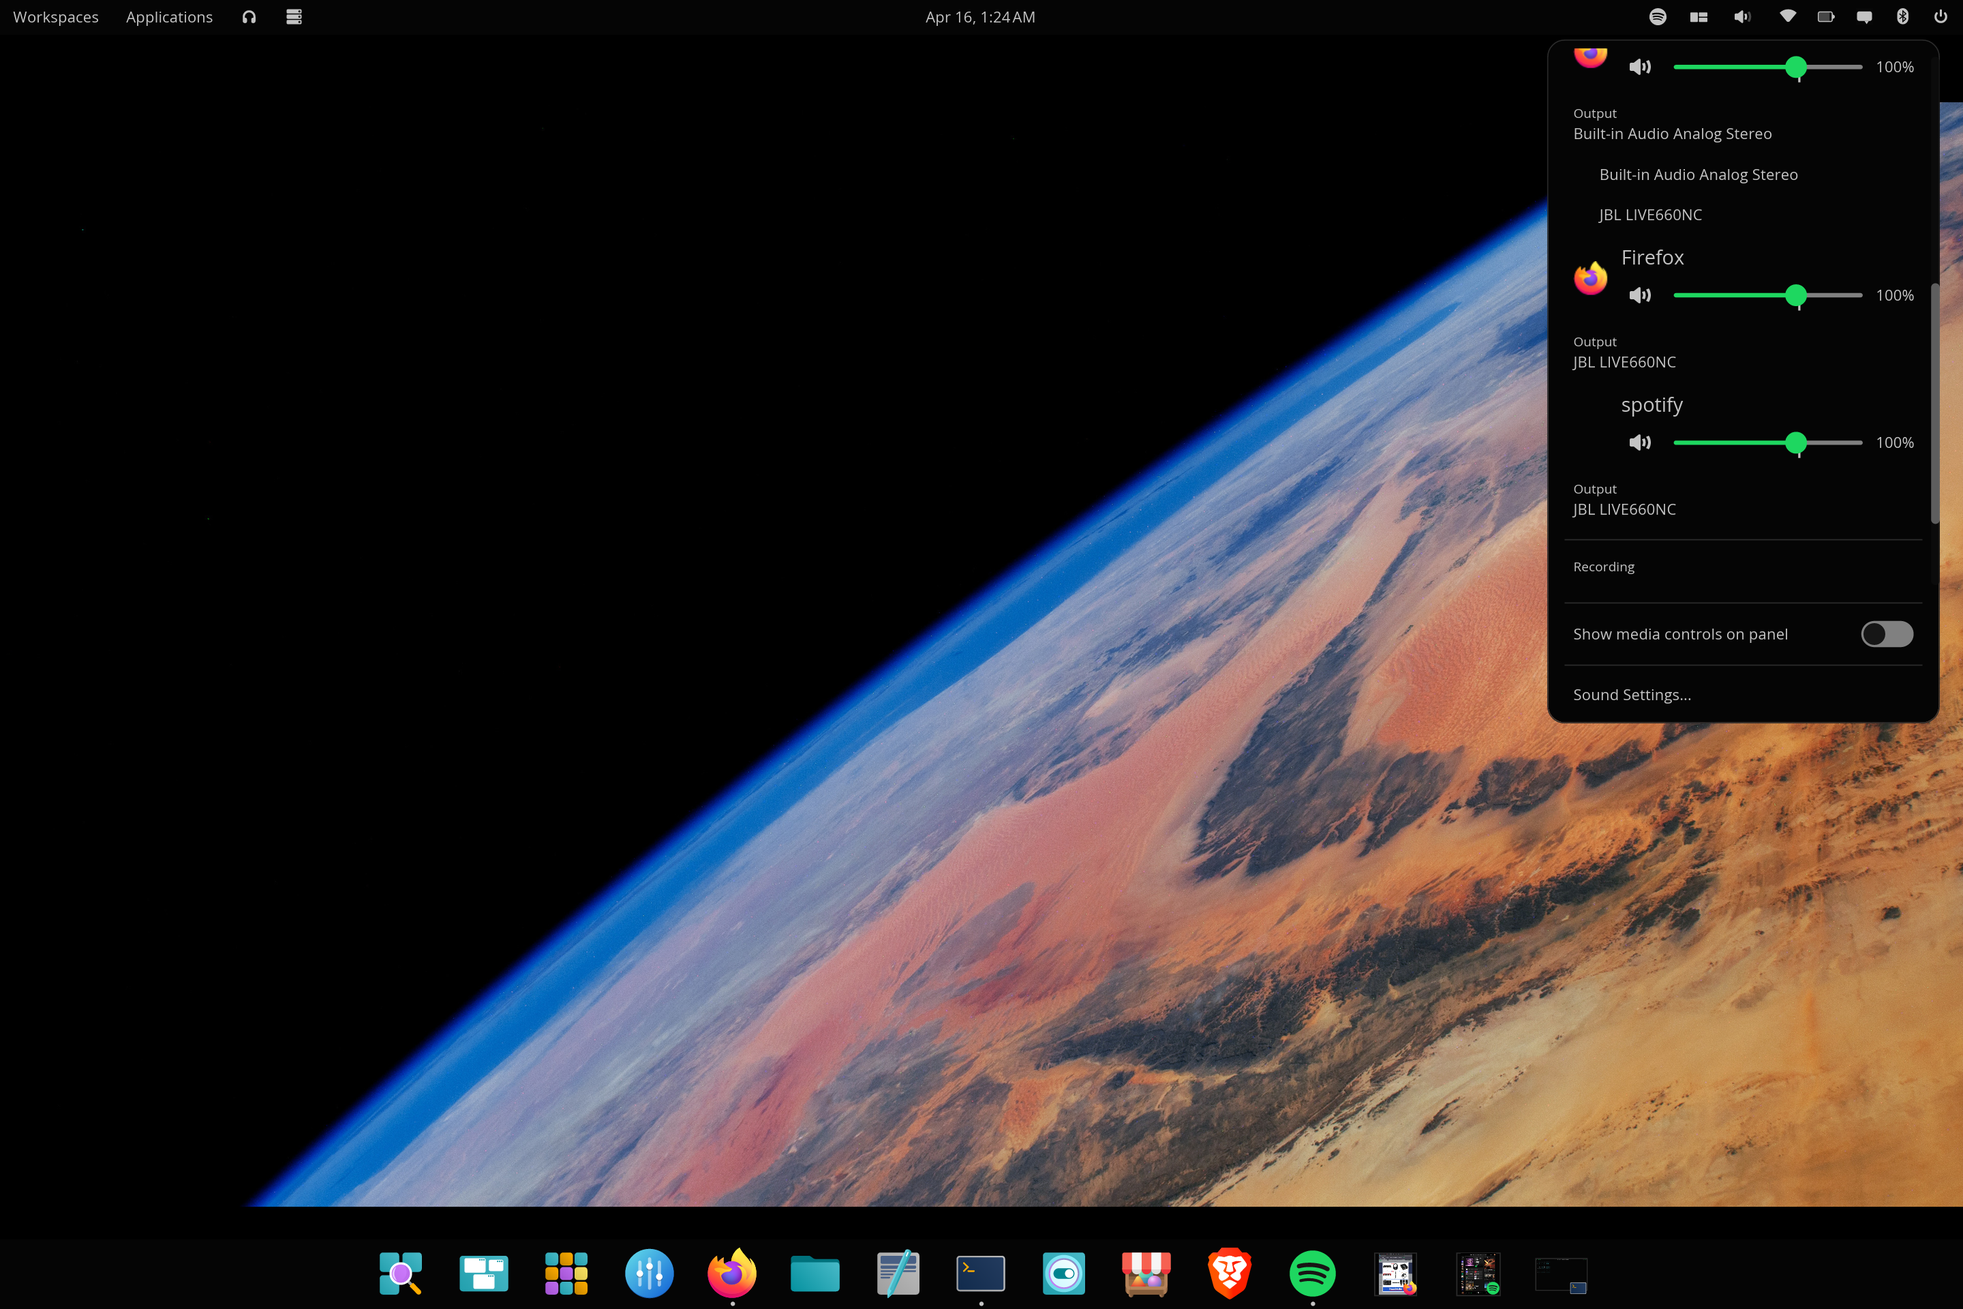
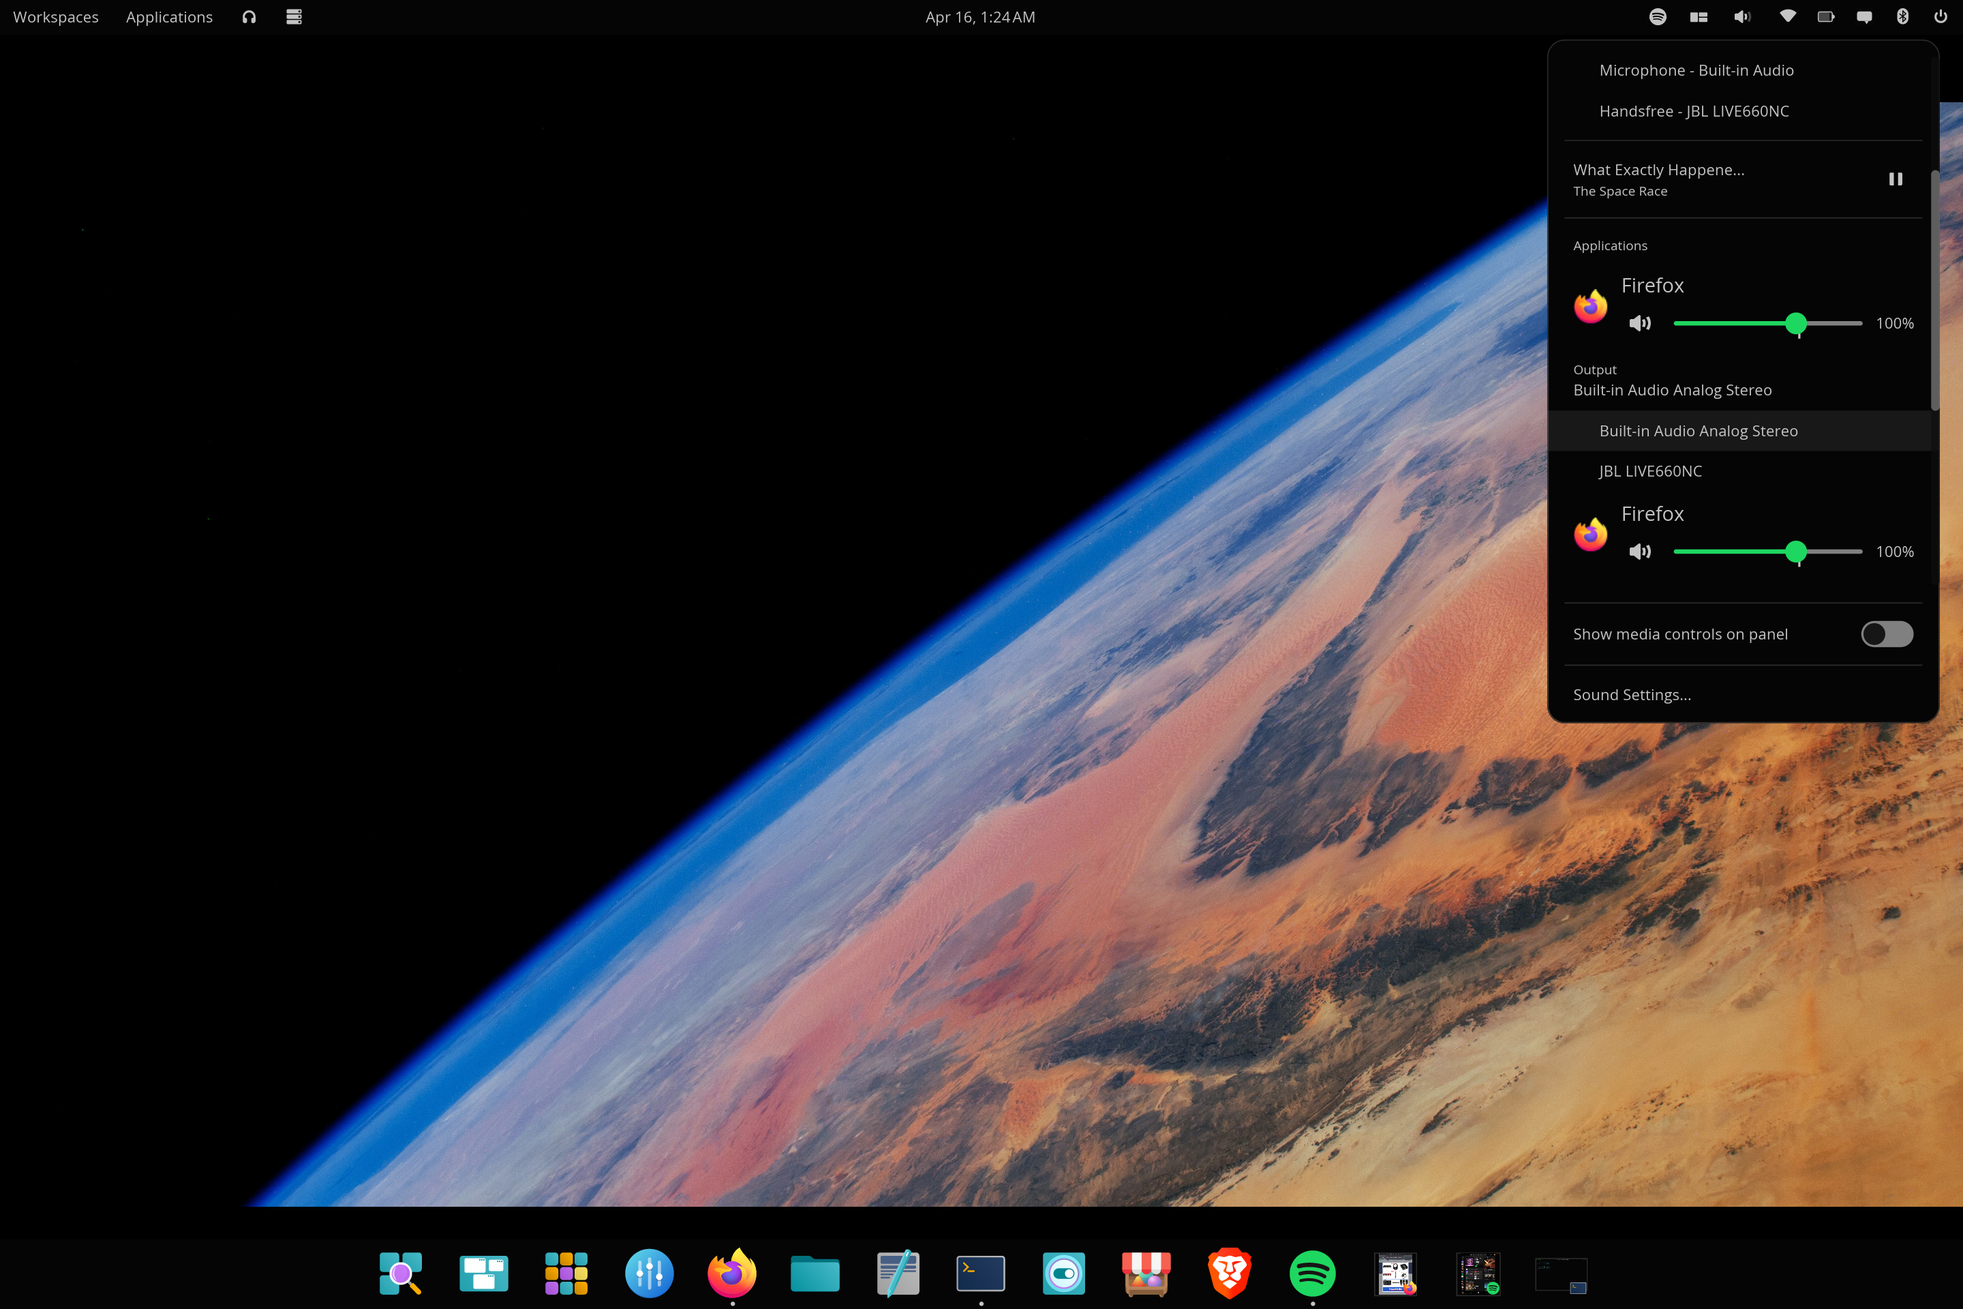
Fix README screenshot descriptions and filenames

Changed region(s): [[0.7812, 0.0312, 0.9688, 0.4375], [0.9688, 0.3125, 1.0, 0.4062], [0.9688, 0.125, 1.0, 0.2188]]

diff --git a/README.md b/README.md
@@ -1,62 +1,100 @@
 # cosmic-app-volume
 
-A COSMIC desktop panel applet for per-application volume control and audio routing — replaces the default sound applet with a full mixer.
+A COSMIC desktop panel applet that adds **per-application volume control and per-application audio routing** — the missing piece in COSMIC's audio stack today.
 
-![Per-app volume mixer](screenshots/popup-overview.png)
+![Per-app volume mixer with multiple apps](screenshots/multiple-apps.png)
 
-## What it does
+## How this differs from COSMIC's built-in sound applet
 
-This is a fork of the upstream `cosmic-applet-audio` from System76, extended with per-application controls. You get everything the default sound applet does, plus:
+COSMIC ships with a sound applet (`cosmic-applet-audio`) that gives you master output volume, master input volume, and a picker for which output / input device the system uses. **What it does not give you is per-application control.** If Spotify is too loud while you're on a Discord call, your only option today is to open `pavucontrol` and use it as a separate app.
 
-**Per-application volume sliders** — Independent volume for every app currently producing audio (Firefox, Spotify, Discord, games, etc.) with mute toggle.
+System76 has acknowledged this gap and explicitly deferred it: see [pop-os/cosmic-settings #6](https://github.com/pop-os/cosmic-settings/issues/6) — *"Do not include per-application volume levels. These can arrive in COSMIC V2."* With COSMIC currently in Epoch 1 and Epoch 2 / Epoch 3 still on the roadmap, that's likely a 2026 / 2027 timeline. This applet fills the gap **now**.
 
-**Per-application output routing** — Click the "Output" row beneath any app to expand a list of all available output devices, then click one to move that app's audio there. Same flow as the master Output picker.
+This applet is a fork of `cosmic-applet-audio` — it keeps everything System76 built (so you don't lose anything by switching to it) and adds the per-app section underneath. Specifically, this applet does **everything the stock applet does**, plus:
 
-**Per-application input routing** — Apps capturing microphone audio (Discord calls, OBS, browser meetings, recording software) get their own section with the same volume + routing controls. Pick which input device each app records from.
+| Feature | Stock `cosmic-applet-audio` | `cosmic-app-volume` (this) |
+| --- | --- | --- |
+| Master output volume + mute | ✅ | ✅ |
+| Master input volume + mute | ✅ | ✅ |
+| Output device picker | ✅ | ✅ |
+| Input device picker | ✅ | ✅ |
+| Scroll-wheel volume on icon | ✅ | ✅ |
+| MPRIS now-playing + transport | ✅ | ✅ |
+| **Per-app volume sliders** | ❌ | ✅ |
+| **Per-app mute toggles** | ❌ | ✅ |
+| **Per-app output routing** (move app's audio to a different device) | ❌ | ✅ |
+| **Per-app input routing** (move app's mic source to a different device) | ❌ | ✅ |
+| **Per-app recording control** (mic-using apps shown separately) | ❌ | ✅ |
+| **App icons + large names** in the mixer | ❌ | ✅ |
+| **Scrollable popup** when many apps are playing | ❌ | ✅ |
 
-**Application icons and large names** — Each app row shows the application's own icon (Firefox, Spotify, Brave, etc.) at 32px with the app name at 18px so you can scan the list at a glance.
-
-**Scrollable popup** — When many apps are playing, the per-app section scrolls. The "Sound Settings" link and media controls toggle stay pinned at the bottom.
-
-**Everything from the upstream applet** — Smooth master output and input volume sliders with scroll-wheel control on the panel icon, output and input device pickers, MPRIS now-playing with transport controls, "Show media controls on panel" toggle, "Sound Settings…" link.
+You can run this **alongside** the stock applet, but most people will want to remove the stock applet from their panel after installing this one — they look almost identical at the top, and having both is redundant.
 
 ## Screenshots
 
-| Master controls + per-app | Output picker (master) | Input picker (master) | Per-app output picker | Per-app routing + recording |
-|---|---|---|---|---|
-| ![Overview](screenshots/popup-overview.png) | ![Output](screenshots/output-picker.png) | ![Input](screenshots/input-picker.png) | ![App output](screenshots/app-output-picker.png) | ![Recording](screenshots/recording-section.png) |
+The popup expands the master volume controls at the top, then any active media player, then a per-application section, then a recording section if any app is using a microphone. Output and input device pickers are click-to-expand revealers — same for the per-app routing pickers.
 
-## Why this exists
+**Master output device picker expanded** — click the "Output" row beneath the master volume slider to choose between available output devices. Now-playing track and per-app Firefox row visible below.
 
-System76 deferred per-application volume control to a future COSMIC release ([cosmic-settings#6](https://github.com/pop-os/cosmic-settings/issues/6) — "These can arrive in COSMIC V2"). With the Epoch 2 / Epoch 3 timeline that's likely late 2026 or 2027. Until then, the only way to control per-app volume on COSMIC is to open `pavucontrol` every time. This applet fills that gap.
+![Master output picker](screenshots/master-output-picker.png)
+
+**Master input device picker expanded** — same revealer pattern for switching between available microphones (here showing the laptop's built-in mic and the JBL headphones in handsfree mode).
+
+![Master input picker](screenshots/master-input-picker.png)
+
+**Per-app output routing** — each app in the Applications section gets its own Output picker beneath. Click it to move that app's audio to a different device independent of the system default. Here Firefox's picker is expanded showing both available outputs.
+
+![Per-app output picker](screenshots/app-output-picker.png)
+
+**Multiple apps playing simultaneously** — two Firefox streams and a Spotify stream all listed independently with their own volume sliders, mute toggles, and current output device shown beneath each.
+
+![Multiple apps](screenshots/multiple-apps.png)
+
+**Recording section** — apps capturing microphone audio appear in a separate section below playback apps. Same controls — volume slider, mute toggle, input device picker. Firefox is shown here recording at 55% with the mic-style icon.
+
+![Recording section](screenshots/recording-section.png)
 
 ## Dependencies
 
-- [COSMIC desktop](https://github.com/pop-os/cosmic-epoch) with panel
-- [PipeWire](https://pipewire.org/) with the PulseAudio compatibility layer (default on most distros)
-- `libpulse` — PulseAudio client library (for the PipeWire compat API)
-- Rust + Cargo (for building)
-- `just` (build command runner)
+- [COSMIC desktop](https://github.com/pop-os/cosmic-epoch) (Epoch 1 / 1.0.x or later)
+- [PipeWire](https://pipewire.org/) with the PulseAudio compatibility layer (default on every modern distro that ships PipeWire)
+- PulseAudio client library development headers (this is a **build-time** dependency)
+- Rust toolchain (`rustc` + `cargo`)
+- [`just`](https://github.com/casey/just) command runner
 
-The applet talks to PipeWire through `libpulse`'s sink-input / source-output API. PipeWire ships a PulseAudio compatibility layer by default, so this works on any modern PipeWire-based distro.
+This applet talks to PipeWire through `libpulse`'s sink-input / source-output API. PipeWire ships a PulseAudio compatibility layer by default, so this works on any PipeWire-based distro without extra configuration. It does **not** require running PulseAudio itself.
 
-### Install dependencies
+You'll also need the standard COSMIC build dependencies (Wayland headers, xkbcommon headers, etc.). The package commands below cover those too.
 
-If you're already running COSMIC on a current distro, PipeWire is there. You mainly need the PulseAudio dev headers, Rust, and `just`.
+### Verified package names per distro
 
-**Arch / CachyOS:**
+> **Important:** the package containing the libpulse C headers has a different name on every distro. The runtime library is almost always already installed; what you need to add is the `-dev` / `-devel` package.
+
+#### Arch / CachyOS / Manjaro
 
 ```sh
-sudo pacman -S libpulse rust just pkgconf
+sudo pacman -S libpulse rust just pkgconf base-devel wayland libxkbcommon
 ```
 
-**Fedora:**
+The Arch [`libpulse`](https://archlinux.org/packages/extra/x86_64/libpulse/) package includes both the runtime library and the headers — there is no separate `-dev` package on Arch.
+
+#### Fedora / Nobara / Bazzite
 
 ```sh
 sudo dnf install pulseaudio-libs-devel rust cargo just pkgconf-pkg-config wayland-devel libxkbcommon-devel
 ```
 
-**Ubuntu / Pop!_OS:**
+The package is [`pulseaudio-libs-devel`](https://packages.fedoraproject.org/pkgs/pulseaudio/pulseaudio-libs-devel/) even on PipeWire-based Fedora — the package provides the libpulse headers, not the PulseAudio daemon.
+
+#### Bluefin / Aurora / other rpm-ostree systems
+
+```sh
+rpm-ostree install pulseaudio-libs-devel
+```
+
+Then reboot, then install Rust and `just` via your normal user-space tooling (e.g. `brew install rust just` or `cargo install just` after installing rustup).
+
+#### Ubuntu / Pop!_OS / Debian / Linux Mint
 
 ```sh
 sudo apt install libpulse-dev build-essential pkg-config libwayland-dev libxkbcommon-dev
@@ -64,7 +102,32 @@ curl --proto '=https' --tlsv1.2 -sSf https://sh.rustup.rs | sh
 cargo install just
 ```
 
-> **Note:** If the build fails with a missing header error, install the corresponding `-dev` (Ubuntu) or `-devel` (Fedora) package. See the [cosmic-epoch README](https://github.com/pop-os/cosmic-epoch) for the full COSMIC build dependency list.
+The package is [`libpulse-dev`](https://packages.ubuntu.com/libpulse-dev) on Ubuntu/Debian. It pulls in `libpulse0` (the runtime) automatically. On Ubuntu 24.04 LTS it lives in `universe`, which is enabled by default.
+
+#### openSUSE Tumbleweed / Leap
+
+```sh
+sudo zypper install libpulse-devel rust cargo just pkgconf-pkg-config wayland-devel libxkbcommon-devel
+```
+
+> **If the build fails with a missing header error,** install the corresponding `-dev` (Debian-family) or `-devel` (RPM-family) package for whatever it can't find. See the [cosmic-epoch README](https://github.com/pop-os/cosmic-epoch) for the full list of build dependencies COSMIC itself needs.
+
+### Verifying you have what you need before building
+
+Run these three checks first — they take 5 seconds and save you from a half-hour failed compile:
+
+```sh
+# 1. PipeWire's PulseAudio compat is running (you should see a number, not an error)
+pactl info | grep "Server Name"
+
+# 2. libpulse headers are installed (should print a path, not "not found")
+pkg-config --cflags libpulse
+
+# 3. Rust + just are installed
+rustc --version && just --version
+```
+
+If all three return real output, you're ready to build.
 
 ## Install
 
@@ -74,63 +137,65 @@ cd cosmic-app-volume
 just install
 ```
 
-The first build takes a while (3-5 minutes) because it pulls and compiles libcosmic from git. Subsequent builds are fast.
+The first build takes 3–5 minutes because it pulls and compiles `libcosmic` from git. Subsequent rebuilds are fast.
 
-After install, restart `cosmic-panel` so it picks up the new applet:
+After install, restart `cosmic-panel` so it discovers the new applet:
 
 ```sh
 killall cosmic-panel
 ```
 
-It auto-respawns immediately.
+It auto-respawns within a second — no log-out required.
 
-### Add the applet
+### Add the applet to your panel
 
-Open **Settings → Desktop → Panel → Configure Panel Applets**, click **+ Add Applet**, find **App Volume**, drag it to the right section of your panel.
+Open **Settings → Desktop → Panel → Configure Panel Applets**, click **+ Add Applet**, find **App Volume**, drag it into the right section of your panel.
 
-You'll probably want to remove the default "Sound" applet from the panel since this one replaces it.
+Once it's in place and you've confirmed it works, you'll probably want to **remove the stock Sound applet** from the panel — they're nearly identical at the top, so keeping both is just visual noise.
 
 ## Usage
 
-**Click the speaker icon** in your panel to open the popup.
+**Click the speaker icon** in the panel to open the popup.
 
-**Master controls** — Output volume slider with mute (scroll wheel works on the panel icon), input/microphone volume slider with mute, expandable Output and Input device pickers (same as the upstream applet).
+**Master controls** at the top: output volume slider with mute, input/microphone volume slider with mute, expandable Output and Input device pickers. Scroll-wheel on the panel icon adjusts master volume in 5% steps.
 
-**Now playing** — If an MPRIS-compatible app is playing media, you'll see track info with skip-back / play-pause / skip-forward buttons.
+**Now playing** appears beneath when an MPRIS-compatible player is active (Spotify, Firefox media, mpv, etc.) with track info and skip-back / play-pause / skip-forward buttons.
 
-**Applications section** — Each app currently playing audio gets its own row:
+**Applications section** shows every app currently producing audio, each as its own row:
 
-- Application icon and name at the top
+- App icon (32px) and app name (18px) at the top
 - Volume slider 0–150% with mute toggle on the left
-- Current output device shown beneath; click it to expand a picker and move that app to a different output
+- Current output device shown beneath; click the row to expand a picker and move that app's audio to any other available output
 
-**Recording section** — Apps capturing microphone audio get the same treatment:
+**Recording section** shows every app currently capturing audio (Discord during a call, OBS recording, browser meetings, etc.):
 
-- Application icon and name
+- Same large name and icon
 - Volume slider with mic-style mute toggle
-- Current input device shown beneath; click it to expand a picker and route that app to a different microphone
+- Current input device shown beneath; click to expand and route that app to a different microphone
 
-**Sound Settings** — Opens the COSMIC Settings sound page for advanced configuration.
+**Sound Settings…** at the bottom opens the COSMIC Settings sound page for advanced configuration (sample rates, profiles, etc.).
 
 ## How it works
 
-The applet runs entirely within the COSMIC panel process. There is no background daemon.
+The applet runs entirely within the COSMIC panel process — there is no background daemon, no system service, nothing to enable.
 
-- **Master volume controls** use System76's `cosmic-settings-sound-subscription`, the same reactive PipeWire model the upstream `cosmic-applet-audio` uses. This is what gives the master slider its smoothness.
-- **Per-app controls** use a dedicated thread running the PulseAudio mainloop, talking to PipeWire through the PulseAudio compatibility layer. The thread subscribes to sink-input and source-output events, sends snapshots to the UI through a channel, and receives volume / mute / route commands back.
-- **Filtering** removes system event sounds (volume change beeps, notification chimes), short-lived audio feedback streams, and noise generators like `pw-play`, `pavucontrol`, and `pw-record` so only real applications appear.
+- **Master controls** use System76's reactive `cosmic-settings-sound-subscription`, the same model the stock applet uses. This is what gives the master sliders their smoothness.
+- **Per-app controls** use a dedicated thread running the libpulse mainloop, talking to PipeWire through its PulseAudio compat layer. The thread subscribes to `sink-input` and `source-output` events, sends snapshots to the UI through a channel, and receives volume / mute / route commands back.
+- **Filtering** removes system event sounds (volume change beeps, notification chimes), short-lived audio feedback streams from `pw-play` / `pavucontrol` / `pw-record`, and anything tagged with `media.role=event`. Only real applications appear in the mixer.
 
-### Detection methods
+### What's actually happening underneath
 
-| Stream type | Source | Volume / mute | Routing |
-|---|---|---|---|
-| Application playback | PulseAudio sink-input list | `set_sink_input_volume` / `set_sink_input_mute` | `move_sink_input_by_index` |
-| Application recording | PulseAudio source-output list | `set_source_output_volume` / `set_source_output_mute` | `move_source_output_by_index` |
-| Master output / input | `cosmic-settings-sound-subscription` | (handled by upstream model) | (handled by upstream model) |
+| Stream type | Discovered via | Volume / mute | Routing to a different device |
+| --- | --- | --- | --- |
+| App playback | libpulse `get_sink_input_info_list` | `set_sink_input_volume` / `set_sink_input_mute` | `move_sink_input_by_index` |
+| App recording | libpulse `get_source_output_info_list` | `set_source_output_volume` / `set_source_output_mute` | `move_source_output_by_index` |
+| Master output / input | `cosmic-settings-sound-subscription` | (handled by System76's reactive model) | (handled by System76's reactive model) |
+
+These are exactly the same APIs `pavucontrol` uses — this applet is essentially `pavucontrol`'s mixer compressed into a panel popup with COSMIC styling.
 
 ## Customizing the popup height
 
-The scrollable per-app section is capped at 500px. If that feels off on your screen, change one line in `src/lib.rs`:
+The scrollable per-app section is capped at 500px so the popup doesn't grow taller than your screen. If that feels off, change one line in `src/lib.rs`:
 
 ```rust
 container(scrollable(audio_content)).max_height(500),
@@ -145,11 +210,11 @@ just uninstall
 killall cosmic-panel
 ```
 
-Then remove the applet from the panel in Settings → Desktop → Panel.
+Then remove the applet from the panel in **Settings → Desktop → Panel → Configure Panel Applets**.
 
 ## Credits
 
-This is a fork of [`cosmic-applet-audio`](https://github.com/pop-os/cosmic-applets/tree/master/cosmic-applet-audio) by System76. All the polish in the master volume controls, output/input device pickers, MPRIS integration, and panel icon behavior comes from their work. The per-application section is the addition.
+This is a fork of [`cosmic-applet-audio`](https://github.com/pop-os/cosmic-applets/tree/master/cosmic-applet-audio) by System76. All the polish in the master volume controls, output/input device pickers, MPRIS integration, and panel-icon scroll behavior comes directly from their work — the per-application section is the addition.
 
 ## License
 
